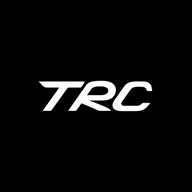
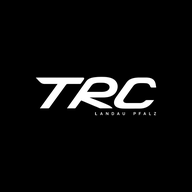
Add files via upload

Changed region(s): [[0.1875, 0.375, 0.8125, 0.625]]

diff --git a/index.html b/index.html
@@ -20,7 +20,7 @@ button{font:inherit;color:inherit;cursor:pointer}
 a{color:inherit}
 :focus-visible{outline:2px solid #fff;outline-offset:3px}
 .app{max-width:480px;margin:0 auto;padding:0 20px 110px}
-.top{padding:14px 0}.mark{display:block;height:26px;width:auto}
+.top{padding:14px 0}.mark{display:block;height:46px;width:auto}
 .view{display:none}.view.on{display:block}
 h2{font-style:italic;font-weight:800;font-size:24px;margin:30px 0 12px}
 h3{margin:0;font-size:17px;font-weight:600}
@@ -60,7 +60,7 @@ textarea{resize:vertical}
 </head>
 <body>
 <div class="app">
-  <div class="top"><img class="mark" src="logo-trc.png" alt="TRC"></div>
+  <div class="top"><img class="mark" src="logo-lockup.png" alt="TRC Landau Pfalz"></div>
 
   <section class="view on" id="v-start">
     <img class="logo" src="logo-lockup.png" alt="TRC Landau Pfalz">
